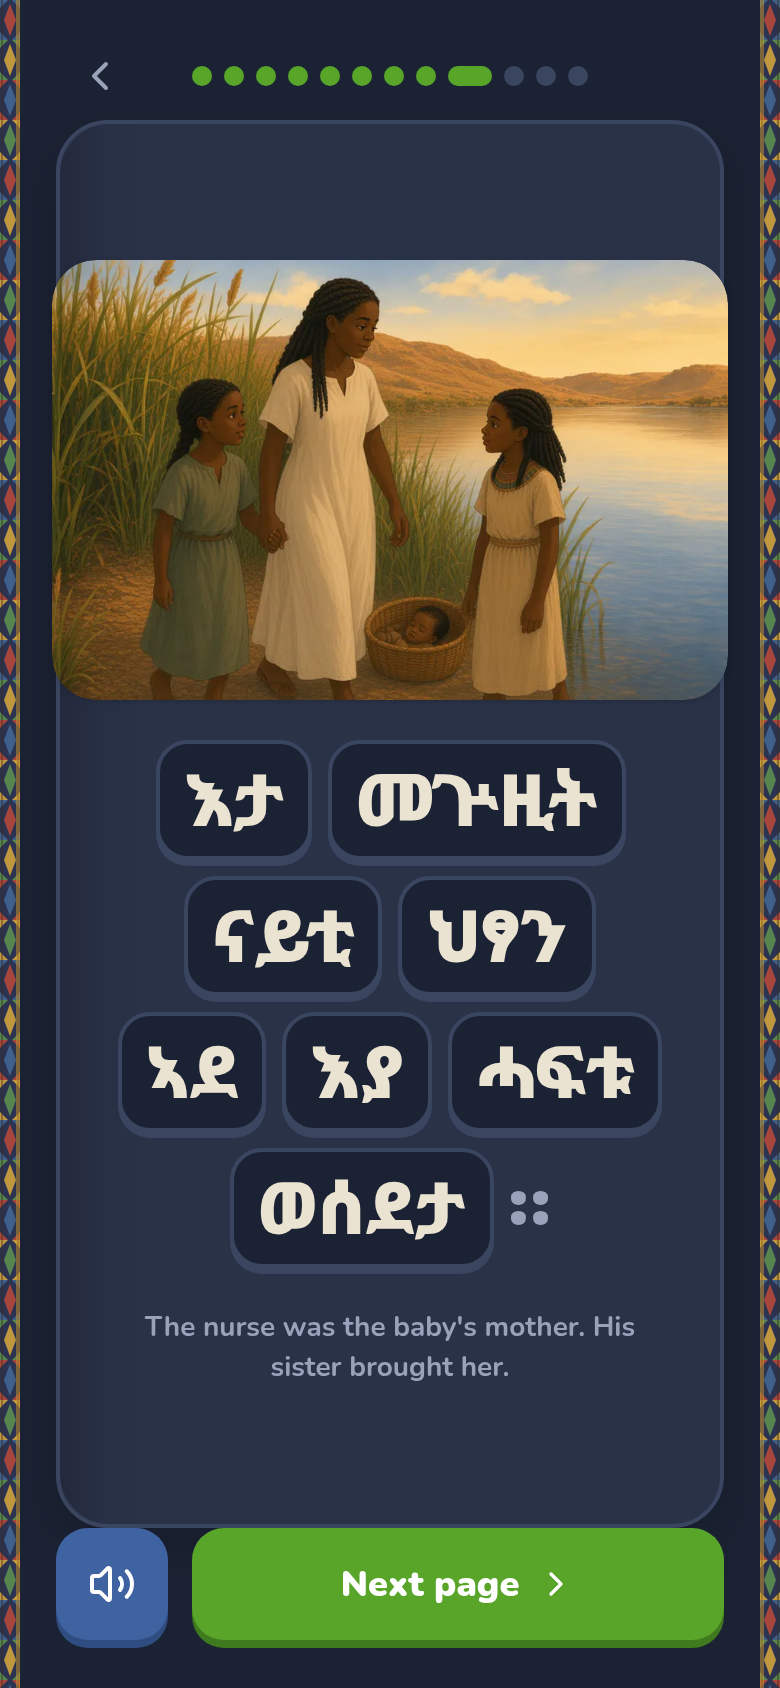
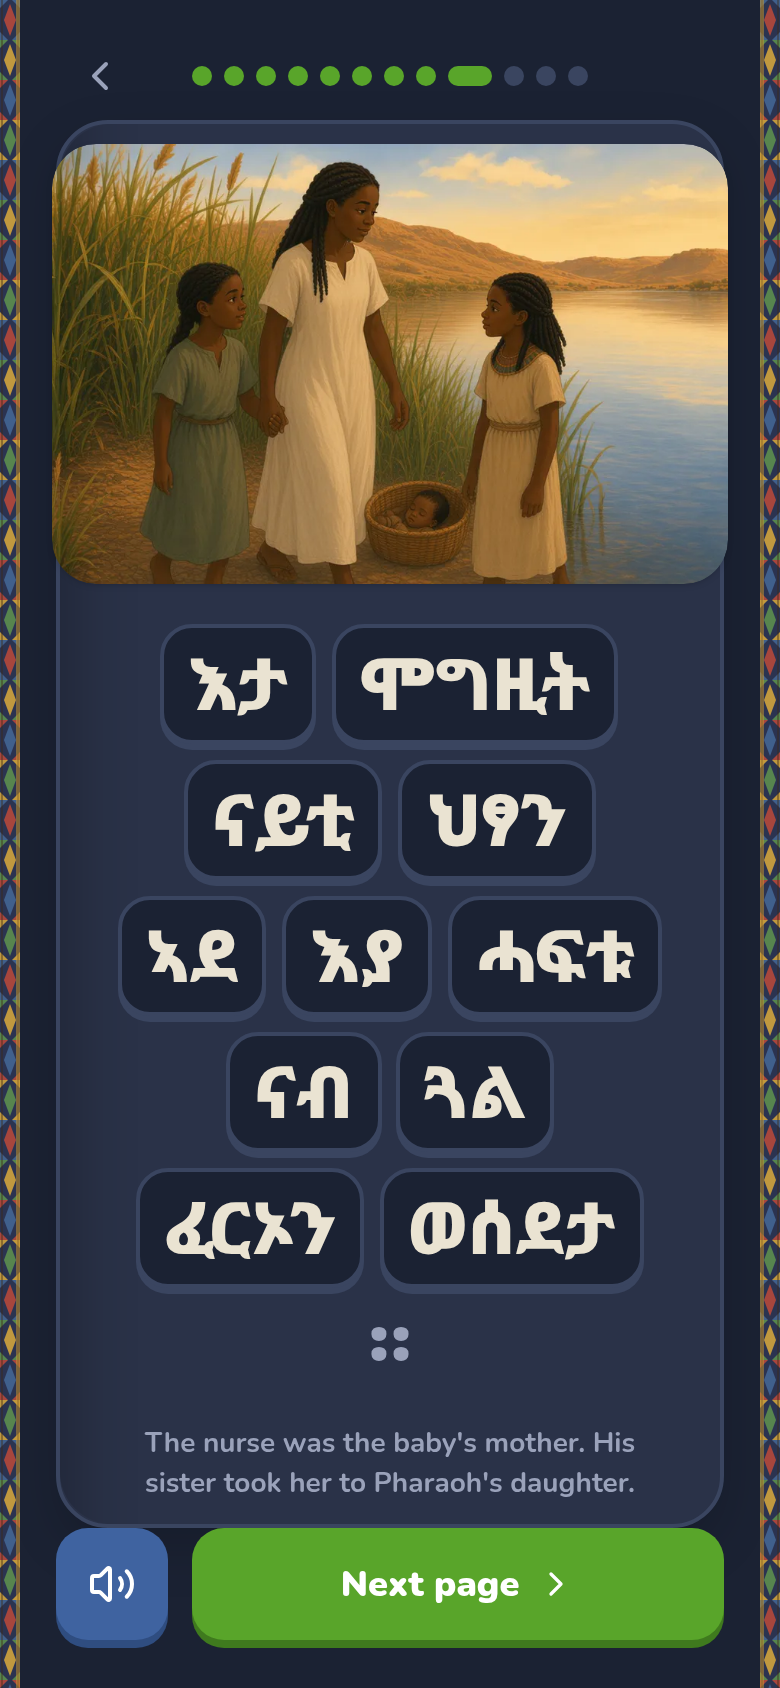
Apply Yosief's Moses line spellings.
Pharaoh is ፈርኦን, the basket is ሳጹን, and the nurse is ሞግዚት. His order is ኣዘዘ. The name line says he was found in the water.

diff --git a/src/data/bibleStories.test.js b/src/data/bibleStories.test.js
@@ -224,24 +224,24 @@ describe('moses bible book', () => {
 
   it('paraphrases Exodus 2 as one connected story', () => {
     expect(book.id).toBe('bible-moses')
-    expect(book.titleTi).toBe('ሳፁን ሙሴ')
+    expect(book.titleTi).toBe('ሳጹን ሙሴ')
     expect(book.titleEn).toBe('Baby Moses')
     expect(book.free).toBe(false)
     expect(book.band).toBe(2)
     expect(book.refrain.geez).toBe('እግዚኣብሄር ነቲ ህፃን ሓለዎ።')
     expect(book.refrain.meaningEn).toBe('God watched over the baby.')
     expect(book.pages.map((p) => p.geez)).toEqual([
-      'ፈርዖን ንህዝቡ ነቶም ንእሽቶ ኣወዳት ክጎድእዎም ኣዘዞ።',
+      'ፈርኦን ንህዝቡ ነቶም ንእሽቶ ኣወዳት ክጎድእዎም ኣዘዘ።',
       'እታ ኣደ ግና ንህፃና ሰለስተ ወርሒ ኣብ ቤት ዓቒባቶ።',
-      'ምሕብኡ ምስ ሰኣነት፡ ብሻምብቆ ሳፁን ሰርሐት።',
-      'ነቲ ህፃን ኣብቲ ሳፁን ኣእትያ፡ ኣብ ሰልሰላ ሩባ ኣንበረቶ።',
-      'ሓፍቱ ርሕቕ ኢላ ደው በለት። ነቲ ሳፁን ትርኢ ነበረት።',
-      'ጓል ፈርዖን ናብ ሩባ ወረደት። ነቲ ሳፁን ኣብ ሰልሰላ ረኣየት።',
-      'እቲ ህፃን ምስ በኸየ፡ ጓል ፈርዖን ራህርሀትሉ።',
-      'ሓፍቱ መጕዚት ክትረክብ በለታ።',
-      'እታ መጕዚት ናይቲ ህፃን ኣደ እያ። ሓፍቱ ወሰደታ።',
+      'ምሕብኡ ምስ ሰኣነት፡ ብሻምብቆ ሳጹን ሰርሐት።',
+      'ነቲ ህፃን ኣብቲ ሳጹን ኣእትያ፡ ኣብ ሰልሰላ ሩባ ኣንበረቶ።',
+      'ሓፍቱ ርሕቕ ኢላ ደው በለት። ነቲ ሳጹን ውን ትርኢ ነበረት።',
+      'ጓል ፈርኦን ናብ ሩባ ወረደት። ነቲ ሳጹን ኣብ ሰልሰላ ረኣየቶ።',
+      'እቲ ህፃን ምስ በኸየ፡ ጓል ፈርኦን ራህርሀትሉ።',
+      'ሓፍቱ ሞግዚት ክረኽበልኪ በለታ።',
+      'እታ ሞግዚት ናይቲ ህፃን ኣደ እያ። ሓፍቱ ናብ ጓል ፈርኦን ወሰደታ።',
       'እታ ኣደ ነቲ ህፃን ኣጥበወቶ። እቲ ህፃን ድማ ዓብየ።',
-      'ጓል ፈርዖን ሙሴ ኢላ ፀውዐቶ። ካብ ማይ ወፂኡ እዩ።',
+      'ጓል ፈርኦን ካብ ማይ ስለዝተረኽበ ሙሴ ኢላ ሴመቶ።',
       'እግዚኣብሄር ነቲ ህፃን ሙሴ ሓለዎ። ሰላም ረኸበ።',
     ])
     expect(book.pages.map((p) => p.meaningEn)).toEqual([
@@ -249,27 +249,31 @@ describe('moses bible book', () => {
       'But the mother kept her baby safe at home for three months.',
       'When she could no longer hide him, she made a papyrus basket.',
       'She put the baby in the basket and set it among the reeds of the river.',
-      'His sister stood far away. She was watching the basket.',
+      'His sister stood far away. She was watching the basket too.',
       "Pharaoh's daughter went down to the river. She saw the basket in the reeds.",
       "When the baby cried, Pharaoh's daughter felt pity for him.",
-      'His sister told her she would find a nurse.',
-      "The nurse was the baby's mother. His sister brought her.",
+      'His sister told her, "I will find a nurse for you."',
+      "The nurse was the baby's mother. His sister took her to Pharaoh's daughter.",
       'The mother nursed the baby. And the baby grew.',
-      "Pharaoh's daughter named him Moses. He came out of the water.",
+      'Because he was found in the water, Pharaoh\'s daughter named him Moses.',
       'God watched over baby Moses. He was safe.',
     ])
     expect(blob.includes('አ')).toBe(false)
     expect(blob.includes('ሔ')).toBe(false)
     expect(blob.includes('እግዚኣብሄር')).toBe(true)
     expect(blob.includes('ሙሴ')).toBe(true)
-    expect(blob.includes('ፈርዖን')).toBe(true)
-    expect(blob.includes('ፈርኦን')).toBe(false)
-    expect(blob.includes('ሳፁን')).toBe(true)
+    expect(blob.includes('ፈርኦን')).toBe(true)
+    expect(blob.includes('\u12D6')).toBe(false)
+    expect(blob.includes('ሳጹን')).toBe(true)
+    expect(blob.includes('\u1341')).toBe(false)
+    expect(blob.includes('ሞግዚት')).toBe(true)
+    expect(blob.includes('\u1315')).toBe(false)
     expect(blob.includes('ሩባ')).toBe(true)
     expect(blob.includes('ሰልሰላ')).toBe(true)
     expect(blob.includes('ሓፍቱ')).toBe(true)
     expect(blob.includes('ጓል')).toBe(true)
-    expect(blob.includes('ኣዘዞ')).toBe(true)
+    expect(blob.includes('ኣዘዘ')).toBe(true)
+    expect(blob.includes('ኣዘዞ')).toBe(false)
     expect(blob.includes('በሎ')).toBe(false)
     expect(book.pages.length).toBe(12)
     for (const page of book.pages) {

diff --git a/src/data/bibleStories.js b/src/data/bibleStories.js
@@ -12,10 +12,10 @@
    connected lines. People do ክፋእ. Noah is ፃድቕ and obeys. God is not
    drawn. "They built" is ሰርሑ, so the line does not use ሔ.
 
-   Book 3, ሳፁን ሙሴ: a kid paraphrase of Exodus 1:22 and 2:1-10. Pharaoh
-   commands with ኣዘዞ. The basket is ሳፁን, the river ሩባ, the reeds
-   ሰልሰላ, the sister ሓፍቱ, the princess ጓል ፈርዖን, the baby ህፃን,
-   and the name ሙሴ. God is not drawn.
+   Book 3, ሳጹን ሙሴ: a kid paraphrase of Exodus 1:22 and 2:1-10. Pharaoh
+   commands with ኣዘዘ. The basket is ሳጹን, the river ሩባ, the reeds
+   ሰልሰላ, the sister ሓፍቱ, the princess ጓል ፈርኦን, the nurse ሞግዚት,
+   the baby ህፃን, and the name ሙሴ. God is not drawn.
 
    ORTHOGRAPHY: ትመ15 spells God እግዚኣብሄር with ሄ, not ሔ, and spells Noah
    ኖህ (ህ, not ሕ). Righteous is ፃድቕ. The ark is መርከብ. God commanded
@@ -23,9 +23,11 @@
    ሰደዶ. The dove is ርግቢ; he sent her ሰደዳ; she returned
    ተመለሰት holding ቘፅሊ ኣውሊዕ. Dry land is ንቑጽ. The bow is ቀስቲ.
    The promise is ኪዳን (Genesis 9 ኪዳነይ). Rain keeps the pack word ዝናብ;
-   ትመ15 writes ዝናም. Creation's "good" stays ጽቡቕ. Exodus 2 spells
-   Moses ሙሴ, Pharaoh ፈርዖን, the basket ሳፁን, and the river ሩባ.
-   Kid lines keep ኣ, never አ, so "she saw" is ረኣየት.
+   ትመ15 writes ዝናም. Creation's "good" stays ጽቡቕ. Moses keeps
+   ሙሴ, the river ሩባ, and the sister ሓፍቱ. Yosief's line pass spells
+   Pharaoh ፈርኦን, the basket ሳጹን, and the nurse ሞግዚት, and Pharaoh's
+   order is ኣዘዘ. Kid lines keep ኣ, never አ. She saw the basket is
+   ረኣየቶ. He was named because he was found in the water, ስለዝተረኽበ.
 
    UNLOCK: the Creation book is `free: true`. Noah is not. It uses the
    ordinary band-1 progress gate (the 8th family, the same gate as the

diff --git a/docs/school-path.md b/docs/school-path.md
@@ -138,17 +138,17 @@ promise `ኪዳን`. The raven is `ኳዅ`. The book is not
 free. It uses the ordinary band-1 progress gate and does not change the
 Creation unlock or the School Path unlocks.
 
-The third book is `ሳፁን ሙሴ` / Baby Moses, a connected kid paraphrase
+The third book is `ሳጹን ሙሴ` / Baby Moses, a connected kid paraphrase
 of Exodus 1:22 and 2:1-10. Pharaoh commands his people about the little
 boys. A mother keeps her baby safe, then makes a papyrus basket and sets
 it in the reeds of the river. His sister watches. Pharaoh's daughter
 finds him, pities him, and the sister brings the baby's own mother to
-nurse him. The princess names him Moses, drawn out of the water, and
-God watches over him. ትመ15 spells Moses `ሙሴ`, Pharaoh `ፈርዖን`, the
-basket `ሳፁን`, the river `ሩባ`, the reeds `ሰልሰላ`, and the sister
-`ሓፍቱ`. The book is band 2: the 16th family. On the Tigrinya pack that
-family is `nye` (ኘ), the last family of School Path chapter 2. Creation
-stays free. Noah stays on band 1.
+nurse him. Because he was found in the water, the princess names him
+Moses, and God watches over him. The book spells Moses `ሙሴ`, Pharaoh
+`ፈርኦን`, the basket `ሳጹን`, the nurse `ሞግዚት`, the river `ሩባ`, the reeds
+`ሰልሰላ`, and the sister `ሓፍቱ`. The book is band 2: the 16th family. On
+the Tigrinya pack that family is `nye` (ኘ), the last family of School
+Path chapter 2. Creation stays free. Noah stays on band 1.
 
 ## P1 follow-ups
 
